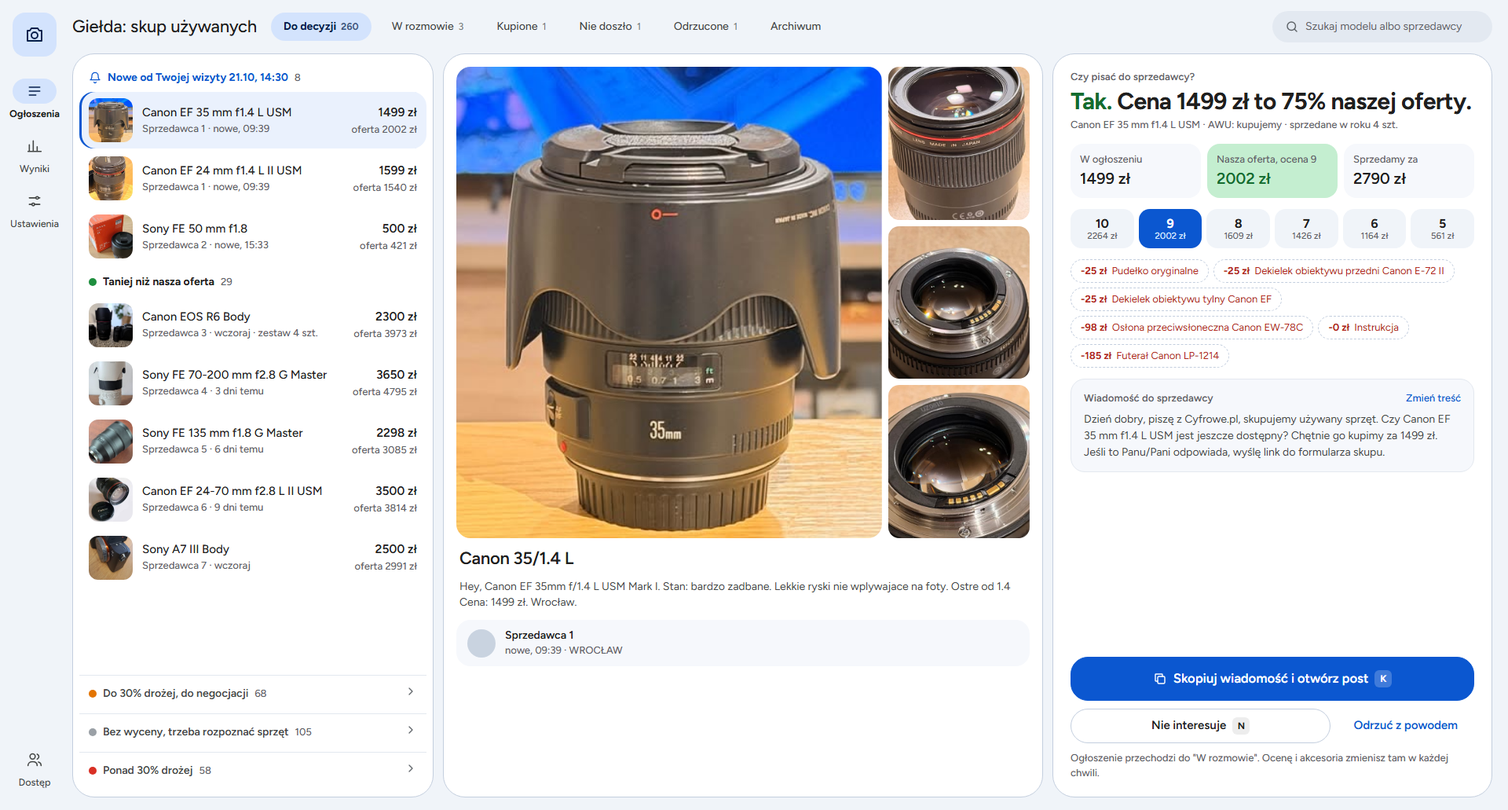
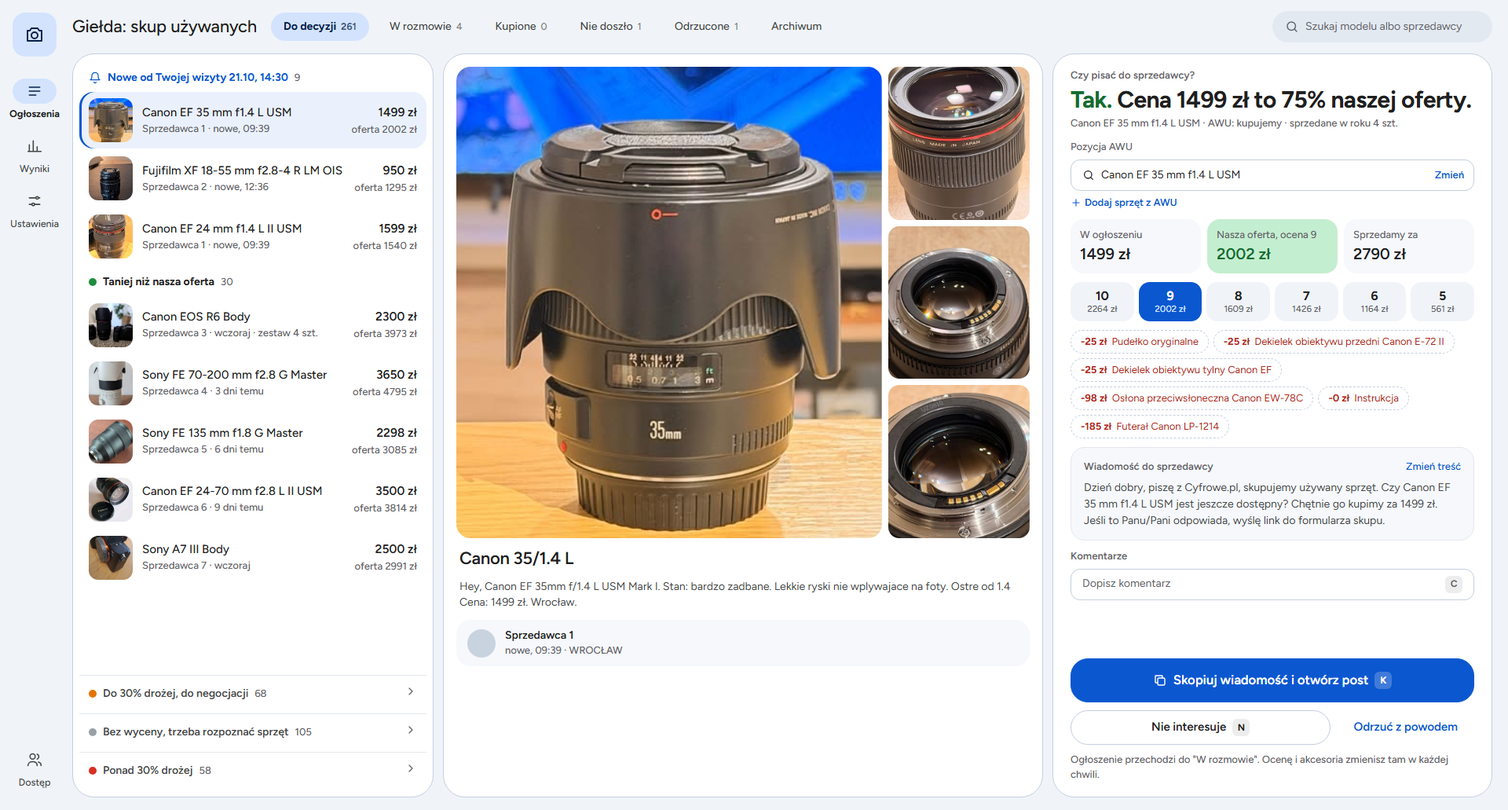
Po uwagach skupu: zakładka W rozmowie z etapami do dotarcia sprzętu, pozycja AWU i komentarze

diff --git a/R.html b/R.html
@@ -1,0 +1,95 @@
+<!doctype html><html lang="pl"><head><meta charset="utf-8"><title>Giełda: W rozmowie</title>
+<link href="https://fonts.googleapis.com/css2?family=Figtree:wght@400;500;600;700;800&display=swap" rel="stylesheet">
+<style>
+*{box-sizing:border-box;margin:0;padding:0}
+:root{--pl:#F0F4F9;--k:#fff;--o:#C3CEDE;--l:#E3E8EF;--t:#1F1F1F;--t2:#444746;--t3:#5E6368;--b:#0B57D0;--bj:#D3E3FD;--bjj:#EAF1FD;--gr:#041E49;
+--g:#146C2E;--gj:#C4EED0;--w:#7A4100;--wj:#FFE2B8;--r:#B3261E;--rj:#F9DEDC;--n:#E9EEF6}
+html,body{background:var(--pl);color:var(--t);font-family:'Google Sans','Figtree',system-ui,sans-serif;font-size:14px;line-height:1.45;-webkit-font-smoothing:antialiased}
+body{width:1920px;height:1031px;overflow:hidden;display:flex}
+.szyna{width:88px;flex:none;display:flex;flex-direction:column;align-items:center;padding:16px 0;gap:6px}
+.logo{width:56px;height:56px;border-radius:16px;background:var(--bj);display:grid;place-items:center;color:var(--gr);margin-bottom:22px}
+.sz{display:flex;flex-direction:column;align-items:center;gap:4px;font-size:12.5px;font-weight:500;color:var(--t2);margin-bottom:10px}
+.sz i{width:56px;height:32px;border-radius:16px;display:grid;place-items:center}.sz.on i{background:var(--bj);color:var(--gr)}.sz.on{color:var(--t);font-weight:700}
+.dol{margin-top:auto}
+.gl{flex:1;display:flex;flex-direction:column;min-width:0;padding:12px 20px 16px 4px;gap:12px}
+.pasek{display:flex;align-items:center;gap:10px;height:44px;flex:none}
+.pasek h1{font-size:22px;font-weight:500;letter-spacing:-.2px;white-space:nowrap;margin-right:8px}
+.tb{display:inline-flex;align-items:center;gap:6px;height:36px;padding:0 16px;border-radius:18px;font-size:14px;font-weight:500;color:var(--t2);white-space:nowrap}
+.tb.on{background:var(--bj);color:var(--gr);font-weight:700}.tb .n{font-size:12.5px;opacity:.7}
+.sp{flex:1}
+.szuk{display:flex;align-items:center;gap:8px;height:40px;padding:0 16px;border-radius:20px;background:#E3E9F1;color:var(--t3);width:280px;font-size:14px}
+.karta{background:var(--k);border:1px solid var(--o);border-radius:28px}
+.chip{display:inline-flex;align-items:center;gap:5px;height:26px;padding:0 10px;border-radius:8px;font-size:12.5px;font-weight:600;white-space:nowrap}
+.chip.g{background:var(--gj);color:var(--g)}.chip.w{background:var(--wj);color:var(--w)}.chip.b{background:var(--rj);color:var(--r)}.chip.n{background:var(--n);color:var(--t2)}.chip.bl{background:var(--bj);color:var(--gr)}
+.btn{display:inline-flex;align-items:center;justify-content:center;gap:8px;height:44px;padding:0 20px;border-radius:22px;font-size:15px;font-weight:600;border:1px solid var(--o);background:var(--k);color:var(--t);white-space:nowrap}
+.btn.p{background:var(--b);border-color:var(--b);color:#fff}.btn.t{border-color:transparent;background:transparent;color:var(--b)}
+.kl{display:inline-grid;place-items:center;min-width:22px;height:22px;padding:0 6px;border-radius:6px;background:rgba(0,0,0,.07);font-size:12px;font-weight:700;color:inherit}
+.btn.p .kl{background:rgba(255,255,255,.22)}
+.k13{font-size:13px;color:var(--t3);font-weight:500}.kick{font-size:13px;font-weight:600;color:var(--t3);letter-spacing:.1px}
+.ell{overflow:hidden;text-overflow:ellipsis;white-space:nowrap}
+img{display:block;object-fit:cover}
+.dot{width:10px;height:10px;border-radius:50%;flex:none}.dot.g{background:#1E8E3E}.dot.w{background:#E37400}.dot.b{background:#D93025}.dot.n{background:#9AA0A6}
+.oc{display:grid;grid-template-columns:repeat(6,1fr);gap:6px}
+.oc span{display:flex;flex-direction:column;align-items:center;justify-content:center;height:50px;border-radius:14px;background:#F0F4F9;font-weight:700;font-size:16px;line-height:1.15}
+.oc span small{font-size:11.5px;font-weight:500;color:var(--t3)}.oc span.on{background:var(--b);color:#fff}.oc span.on small{color:var(--bj)}
+.ak{display:flex;flex-wrap:wrap;gap:6px}
+.ak span{display:inline-flex;align-items:center;gap:6px;height:30px;padding:0 12px;border-radius:15px;font-size:13px;border:1px solid var(--o);background:#fff}
+.ak span.jest{background:var(--gj);border-color:var(--gj);color:var(--g)}.ak span.brak{color:var(--r);border-style:dashed}.ak b{font-weight:700}
+.av{width:40px;height:40px;border-radius:50%;background:#C9D3E0;flex:none;display:inline-block}
+.sprz .av{width:36px;height:36px}
+.wia{border-radius:18px;background:#F6F8FC;border:1px solid var(--l);padding:14px 16px;font-size:14px;color:var(--t2);line-height:1.5}
+.wia .ed{display:flex;justify-content:space-between;align-items:center;margin-bottom:6px}
+.poz{display:flex;flex-direction:column;gap:6px}
+.pole{display:flex;align-items:center;gap:8px;height:40px;padding:0 12px 0 14px;border-radius:12px;border:1px solid var(--o);font-size:14px;color:var(--t);min-width:0}
+.pole .ell{flex:1;min-width:0}.pole .zm{color:var(--b);font-weight:600;font-size:13px}
+.dod{display:inline-flex;align-items:center;gap:4px;color:var(--b);font-weight:600;font-size:13px}
+.komb{display:flex;flex-direction:column;gap:6px}
+.kw{font-size:13.5px;color:var(--t2);background:#F6F8FC;border-radius:12px;padding:8px 12px}.kw b{color:var(--t);font-weight:600}
+.kpole{display:flex;align-items:center;justify-content:space-between;height:40px;padding:0 14px;border-radius:12px;border:1px solid var(--o);color:var(--t3);font-size:14px}
+.uk{flex:1;display:grid;grid-template-columns:1fr 520px;gap:12px;min-height:0}
+.tab{display:grid;grid-template-columns:repeat(4,1fr);gap:12px;min-height:0}
+.kol{background:#E6EBF2;border-radius:24px;padding:12px;display:flex;flex-direction:column;gap:8px;min-height:0;overflow:hidden}
+.kol-g{display:flex;align-items:center;gap:8px;padding:4px 6px 0;font-size:16px}.kol-g b{font-weight:700}
+.kol-o{padding:0 6px 4px;line-height:1.35}
+.kol-c{display:flex;flex-direction:column;gap:8px;min-height:0}
+.kb{background:#fff;border:1px solid var(--o);border-radius:18px;padding:10px;display:flex;flex-direction:column;gap:8px}
+.kb.on{border-color:var(--b);box-shadow:0 0 0 2px var(--b) inset}
+.kb-g{display:grid;grid-template-columns:56px 1fr;gap:10px;align-items:center}.kb-g img{width:56px;height:56px;border-radius:12px}
+.kb-t{min-width:0}.kb-n{font-size:14px;font-weight:600;line-height:1.3;display:-webkit-box;-webkit-line-clamp:2;-webkit-box-orient:vertical;overflow:hidden}
+.kb-l{display:flex;justify-content:space-between;gap:8px;font-size:13px;color:var(--t3)}.kb-l b{color:var(--t);font-weight:600;white-space:nowrap}.kb-l b.g{color:var(--g)}.kb-l b.w{color:var(--w)}
+.kb-a{display:flex;gap:6px}.kb-a .btn{height:34px;font-size:13px;padding:0 10px;flex:1}
+.kb-k{font-size:13px;color:var(--t2);background:#F6F8FC;border-radius:10px;padding:6px 10px}
+.pus{border:2px dashed #B9C4D3;border-radius:18px;padding:18px 14px;text-align:center;color:var(--t3);font-size:13.5px;line-height:1.45}
+.szk{padding:18px 20px;display:flex;flex-direction:column;gap:12px;min-height:0}
+.szk .g2{display:grid;grid-template-columns:2fr 1fr;grid-template-rows:110px 110px;gap:8px}.szk .g2 img{width:100%;height:100%;border-radius:14px}.szk .g2 img:first-child{grid-row:1/3}
+.szk h2{font-size:20px;font-weight:600;line-height:1.25}
+.etap{display:flex;gap:4px}.etap span{flex:1;height:6px;border-radius:3px;background:#DDE3EA}.etap span.on{background:var(--b)}
+.szk .akcje{margin-top:auto;display:grid;grid-template-columns:1fr 1fr 1fr;gap:8px}.szk .akcje .btn{height:46px;font-size:14px;padding:0 10px}
+</style></head><body><nav class="szyna"><div class="logo"><svg width="24" height="24" viewBox="0 0 24 24" fill="none" stroke="currentColor" stroke-width="1.9" stroke-linecap="round" stroke-linejoin="round"><path d="M3 7h3l2-3h8l2 3h3v13H3z"/><circle cx="12" cy="13" r="4"/></svg></div>
+<div class="sz on"><i><svg width="20" height="20" viewBox="0 0 24 24" fill="none" stroke="currentColor" stroke-width="1.9" stroke-linecap="round" stroke-linejoin="round"><path d="M4 6h16M4 12h16M4 18h10"/></svg></i>Ogłoszenia</div><div class="sz"><i><svg width="20" height="20" viewBox="0 0 24 24" fill="none" stroke="currentColor" stroke-width="1.9" stroke-linecap="round" stroke-linejoin="round"><path d="M4 20V10M10 20V4M16 20v-7M22 20H2"/></svg></i>Wyniki</div><div class="sz"><i><svg width="20" height="20" viewBox="0 0 24 24" fill="none" stroke="currentColor" stroke-width="1.9" stroke-linecap="round" stroke-linejoin="round"><path d="M4 7h10M18 7h2M4 17h4M12 17h8"/><circle cx="16" cy="7" r="2"/><circle cx="10" cy="17" r="2"/></svg></i>Ustawienia</div>
+<div class="sz dol"><i><svg width="20" height="20" viewBox="0 0 24 24" fill="none" stroke="currentColor" stroke-width="1.9" stroke-linecap="round" stroke-linejoin="round"><path d="M9 11a4 4 0 1 0 0-8 4 4 0 0 0 0 8zM2 21c0-4 3-6 7-6s7 2 7 6M16 3.5a4 4 0 0 1 0 7.5M22 21c0-3-2-5-4-5.5"/></svg></i>Dostęp</div></nav><main class="gl">
+<div class="pasek"><h1>Giełda: skup używanych</h1>
+<span class="tb">Do decyzji <span class="n">261</span></span><span class="tb on">W rozmowie <span class="n">4</span></span><span class="tb">Kupione <span class="n">0</span></span><span class="tb">Nie doszło <span class="n">1</span></span><span class="tb">Odrzucone <span class="n">1</span></span><span class="tb">Archiwum</span>
+<span class="sp"></span><span class="szuk"><svg width="18" height="18" viewBox="0 0 24 24" fill="none" stroke="currentColor" stroke-width="1.9" stroke-linecap="round" stroke-linejoin="round"><circle cx="11" cy="11" r="7"/><path d="m20 20-4-4"/></svg> Szukaj modelu albo sprzedawcy</span></div>
+<div class="uk">
+ <div class="tab">
+ <section class="kol"><div class="kol-g"><span class="dot w"></span><b>Napisane, czekam</b><span class="k13">3</span></div><div class="k13 kol-o">Wiadomość poszła, nie ma odpowiedzi. Po 24 godzinach karta przypomina o sobie.</div><div class="kol-c"><div class="kb"><div class="kb-g"><img src="img/29514394138163940_0.jpg" alt=""><div class="kb-t"><div class="kb-n">Panasonic Lumix DMC-FZ1000</div>
+<div class="k13 ell">Sprzedawca 8</div></div></div><div class="kb-l"><span>Napisane: Operator</span><b>21.10, 10:30</b></div><div class="kb-l"><span>W ogłoszeniu 1400 zł</span><b class="g">oferta 1889 zł</b></div><div class="kb-a"><span class="btn"><svg width="15" height="15" viewBox="0 0 24 24" fill="none" stroke="currentColor" stroke-width="1.9" stroke-linecap="round" stroke-linejoin="round"><path d="M6 8a6 6 0 1 1 12 0c0 7 3 8 3 8H3s3-1 3-8M10 20a2 2 0 0 0 4 0"/></svg> Przypomnij się</span></div></div><div class="kb on"><div class="kb-g"><img src="img/29453777500892271_0.jpg" alt=""><div class="kb-t"><div class="kb-n">Aparat Sony Alpha 6400 + 18-135mm OSS + 3 baterie + Torba</div>
+<div class="k13 ell">Sprzedawca 9</div></div></div><div class="kb-l"><span>Napisane: Operator</span><b>21.10, 14:30</b></div><div class="kb-l"><span>W ogłoszeniu 1770 zł</span><b class="g">oferta w karcie</b></div><div class="kb-a"><span class="btn"><svg width="15" height="15" viewBox="0 0 24 24" fill="none" stroke="currentColor" stroke-width="1.9" stroke-linecap="round" stroke-linejoin="round"><path d="M6 8a6 6 0 1 1 12 0c0 7 3 8 3 8H3s3-1 3-8M10 20a2 2 0 0 0 4 0"/></svg> Przypomnij się</span></div><div class="kb-k">1 komentarz</div></div><div class="kb"><div class="kb-g"><img src="img/29579214825015204_0.jpg" alt=""><div class="kb-t"><div class="kb-n">Canon EOS 6D + 70-200 f/4L + 50 mm f/1.8 + 35-80 – kompletny zestaw pełnoklatkowy</div>
+<div class="k13 ell">Sprzedawca 10</div></div></div><div class="kb-l"><span>Napisane: Operator</span><b>21.10, 10:49</b></div><div class="kb-l"><span>W ogłoszeniu 2000 zł</span><b class="g">oferta 3700 zł</b></div><div class="kb-a"><span class="btn"><svg width="15" height="15" viewBox="0 0 24 24" fill="none" stroke="currentColor" stroke-width="1.9" stroke-linecap="round" stroke-linejoin="round"><path d="M6 8a6 6 0 1 1 12 0c0 7 3 8 3 8H3s3-1 3-8M10 20a2 2 0 0 0 4 0"/></svg> Przypomnij się</span></div></div></div></section>
+ <section class="kol"><div class="kol-g"><span class="dot bl"></span><b>Rozmawiamy</b><span class="k13">0</span></div><div class="k13 kol-o">Jest odpowiedź. Ustalasz stan, akcesoria i cenę, a wycena zmienia się bez cofania decyzji.</div><div class="kol-c"><div class="pus">Pusto. Karta trafia tu przyciskiem "Jest odpowiedź".</div></div></section>
+ <section class="kol"><div class="kol-g"><span class="dot g"></span><b>Czeka na formularz AWU</b><span class="k13">1</span></div><div class="k13 kol-o">Jest zgoda na cenę i link do formularza. Po 2 dniach bez formularza karta przypomina o sobie.</div><div class="kol-c"><div class="kb"><div class="kb-g"><img src="img/29579853288284691_0.jpg" alt=""><div class="kb-t"><div class="kb-n">Nikon 24-85 mm f2.8-4 D AF</div>
+<div class="k13 ell">Sprzedawca 11</div></div></div><div class="kb-l"><span>Zgoda na</span><b class="g">560 zł</b></div><div class="kb-l"><span>ocena 8, Operator</span><b>21.10, 10:42</b></div><div class="kb-k">Operator: Klient wypełni AWU</div><div class="kb-a"><span class="btn">Formularz jest</span><span class="btn"><svg width="15" height="15" viewBox="0 0 24 24" fill="none" stroke="currentColor" stroke-width="1.9" stroke-linecap="round" stroke-linejoin="round"><path d="M6 8a6 6 0 1 1 12 0c0 7 3 8 3 8H3s3-1 3-8M10 20a2 2 0 0 0 4 0"/></svg> Przypomnij</span></div></div></div></section>
+ <section class="kol"><div class="kol-g"><span class="dot g"></span><b>W drodze do nas</b><span class="k13">0</span></div><div class="k13 kol-o">Formularz wypełniony, sprzęt jest w drodze. Po 5 dniach bez dotarcia karta przypomina o sobie.</div><div class="kol-c"><div class="pus">Pusto. Przycisk "Dotarło" kończy rozmowę i przenosi kartę do zakładki "Kupione".</div></div></section>
+ </div>
+ <section class="karta szk">
+  <div class="etap"><span class="on"></span><span class=""></span><span class=""></span><span class=""></span><span class=""></span></div>
+  <div class="kb-l"><span>Napisane · Rozmawiamy · Formularz AWU · W drodze · Dotarło</span></div>
+  <div class="g2"><img src="img/29453777500892271_0.jpg" alt=""><img src="img/29453777500892271_1.jpg" alt=""><img src="img/29453777500892271_2.jpg" alt=""></div>
+  <h2>Aparat Sony Alpha 6400 + 18-135mm OSS + 3 baterie + Torba</h2>
+  <div class="kb-l"><span>Sprzedawca 9 · w ogłoszeniu 1770 zł</span><b>Napisane 21.10, 14:30</b></div>
+  <div class="poz"><span class="k13">Pozycja AWU</span><div class="pole"><svg width="16" height="16" viewBox="0 0 24 24" fill="none" stroke="currentColor" stroke-width="1.9" stroke-linecap="round" stroke-linejoin="round"><circle cx="11" cy="11" r="7"/><path d="m20 20-4-4"/></svg><span class="ell">Sony A6400 AB Body</span><span class="zm">Zmień</span></div><div class="pole" style="color:var(--t3)"><svg width="16" height="16" viewBox="0 0 24 24" fill="none" stroke="currentColor" stroke-width="1.9" stroke-linecap="round" stroke-linejoin="round"><circle cx="11" cy="11" r="7"/><path d="m20 20-4-4"/></svg><span class="ell">Sony E 18-135 mm f3.5-5.6 OSS</span><span class="zm">Zmień</span></div><span class="dod"><svg width="14" height="14" viewBox="0 0 24 24" fill="none" stroke="currentColor" stroke-width="1.9" stroke-linecap="round" stroke-linejoin="round"><path d="M12 5v14M5 12h14"/></svg> Dodaj sprzęt z AWU</span></div>
+  <div class="komb"><span class="kick">Komentarze (1)</span><div class="kw"><b>Operator</b> <span class="k13">21.10, 14:29</span><div>Do przemyślenia</div></div><div class="kpole">Dopisz komentarz <span class="kl">C</span></div></div>
+  <div class="akcje"><span class="btn">Nie doszło</span><span class="btn">Jest odpowiedź</span><span class="btn p">Zgoda na cenę</span></div>
+ </section>
+</div></main></body></html>

diff --git a/A.html b/A.html
@@ -39,7 +39,13 @@ img{display:block;object-fit:cover}
 .sprz .av{width:36px;height:36px}
 .wia{border-radius:18px;background:#F6F8FC;border:1px solid var(--l);padding:14px 16px;font-size:14px;color:var(--t2);line-height:1.5}
 .wia .ed{display:flex;justify-content:space-between;align-items:center;margin-bottom:6px}
-
+.poz{display:flex;flex-direction:column;gap:6px}
+.pole{display:flex;align-items:center;gap:8px;height:40px;padding:0 12px 0 14px;border-radius:12px;border:1px solid var(--o);font-size:14px;color:var(--t);min-width:0}
+.pole .ell{flex:1;min-width:0}.pole .zm{color:var(--b);font-weight:600;font-size:13px}
+.dod{display:inline-flex;align-items:center;gap:4px;color:var(--b);font-weight:600;font-size:13px}
+.komb{display:flex;flex-direction:column;gap:6px}
+.kw{font-size:13.5px;color:var(--t2);background:#F6F8FC;border-radius:12px;padding:8px 12px}.kw b{color:var(--t);font-weight:600}
+.kpole{display:flex;align-items:center;justify-content:space-between;height:40px;padding:0 14px;border-radius:12px;border:1px solid var(--o);color:var(--t3);font-size:14px}
 .trzy{flex:1;display:grid;grid-template-columns:460px 1fr 560px;gap:12px;min-height:0}
 .lst{padding:10px 8px;overflow:hidden;display:flex;flex-direction:column;gap:2px}
 .lg{display:flex;align-items:center;gap:8px;padding:10px 12px 6px;font-size:14px;font-weight:700;color:var(--t)}
@@ -56,7 +62,7 @@ img{display:block;object-fit:cover}
 .sprz{display:flex;align-items:center;gap:12px;padding:10px 14px;border-radius:18px;background:#F6F8FC}
 .sprz img{width:40px;height:40px;border-radius:50%}
 .opis{font-size:14px;color:var(--t2);padding:0 4px;display:-webkit-box;-webkit-line-clamp:5;-webkit-box-orient:vertical;overflow:hidden}
-.dec{padding:20px 22px;display:flex;flex-direction:column;gap:14px;min-height:0}
+.dec{padding:18px 22px;display:flex;flex-direction:column;gap:11px;min-height:0}
 .odp{display:flex;flex-direction:column;gap:4px}
 .odp .tak{font-size:30px;font-weight:700;letter-spacing:-.6px;line-height:1.15}.odp .tak em{font-style:normal;color:var(--g)}
 .trz{display:grid;grid-template-columns:repeat(3,1fr);gap:8px}
@@ -69,19 +75,19 @@ img{display:block;object-fit:cover}
 <div class="sz on"><i><svg width="20" height="20" viewBox="0 0 24 24" fill="none" stroke="currentColor" stroke-width="1.9" stroke-linecap="round" stroke-linejoin="round"><path d="M4 6h16M4 12h16M4 18h10"/></svg></i>Ogłoszenia</div><div class="sz"><i><svg width="20" height="20" viewBox="0 0 24 24" fill="none" stroke="currentColor" stroke-width="1.9" stroke-linecap="round" stroke-linejoin="round"><path d="M4 20V10M10 20V4M16 20v-7M22 20H2"/></svg></i>Wyniki</div><div class="sz"><i><svg width="20" height="20" viewBox="0 0 24 24" fill="none" stroke="currentColor" stroke-width="1.9" stroke-linecap="round" stroke-linejoin="round"><path d="M4 7h10M18 7h2M4 17h4M12 17h8"/><circle cx="16" cy="7" r="2"/><circle cx="10" cy="17" r="2"/></svg></i>Ustawienia</div>
 <div class="sz dol"><i><svg width="20" height="20" viewBox="0 0 24 24" fill="none" stroke="currentColor" stroke-width="1.9" stroke-linecap="round" stroke-linejoin="round"><path d="M9 11a4 4 0 1 0 0-8 4 4 0 0 0 0 8zM2 21c0-4 3-6 7-6s7 2 7 6M16 3.5a4 4 0 0 1 0 7.5M22 21c0-3-2-5-4-5.5"/></svg></i>Dostęp</div></nav><main class="gl">
 <div class="pasek"><h1>Giełda: skup używanych</h1>
-<span class="tb on">Do decyzji <span class="n">260</span></span><span class="tb">W rozmowie <span class="n">3</span></span><span class="tb">Kupione <span class="n">1</span></span><span class="tb">Nie doszło <span class="n">1</span></span><span class="tb">Odrzucone <span class="n">1</span></span><span class="tb">Archiwum</span>
+<span class="tb on">Do decyzji <span class="n">261</span></span><span class="tb">W rozmowie <span class="n">4</span></span><span class="tb">Kupione <span class="n">0</span></span><span class="tb">Nie doszło <span class="n">1</span></span><span class="tb">Odrzucone <span class="n">1</span></span><span class="tb">Archiwum</span>
 <span class="sp"></span><span class="szuk"><svg width="18" height="18" viewBox="0 0 24 24" fill="none" stroke="currentColor" stroke-width="1.9" stroke-linecap="round" stroke-linejoin="round"><circle cx="11" cy="11" r="7"/><path d="m20 20-4-4"/></svg> Szukaj modelu albo sprzedawcy</span></div>
 <div class="trzy">
  <section class="karta lst">
-  <div class="lg nw"><svg width="16" height="16" viewBox="0 0 24 24" fill="none" stroke="currentColor" stroke-width="1.9" stroke-linecap="round" stroke-linejoin="round"><path d="M6 8a6 6 0 1 1 12 0c0 7 3 8 3 8H3s3-1 3-8M10 20a2 2 0 0 0 4 0"/></svg><span>Nowe od Twojej wizyty 21.10, 14:30</span><span class="k13">8</span></div>
+  <div class="lg nw"><svg width="16" height="16" viewBox="0 0 24 24" fill="none" stroke="currentColor" stroke-width="1.9" stroke-linecap="round" stroke-linejoin="round"><path d="M6 8a6 6 0 1 1 12 0c0 7 3 8 3 8H3s3-1 3-8M10 20a2 2 0 0 0 4 0"/></svg><span>Nowe od Twojej wizyty 21.10, 14:30</span><span class="k13">9</span></div>
   <div class="la on"><img src="img/29691710087099010_0.jpg" alt="">
 <div class="la-t"><div class="ell la-n">Canon EF 35 mm f1.4 L USM</div><div class="ell k13">Sprzedawca 1 · nowe, 09:39</div></div>
-<div class="la-c"><b>1499 zł</b><span class="k13">oferta 2002 zł</span></div></div><div class="la"><img src="img/29691692573767428_0.jpg" alt="">
+<div class="la-c"><b>1499 zł</b><span class="k13">oferta 2002 zł</span></div></div><div class="la"><img src="img/29698342689769083_0.jpg" alt="">
+<div class="la-t"><div class="ell la-n">Fujifilm XF 18-55 mm f2.8-4 R LM OIS</div><div class="ell k13">Sprzedawca 2 · nowe, 12:36</div></div>
+<div class="la-c"><b>950 zł</b><span class="k13">oferta 1295 zł</span></div></div><div class="la"><img src="img/29691692573767428_0.jpg" alt="">
 <div class="la-t"><div class="ell la-n">Canon EF 24 mm f1.4 L II USM</div><div class="ell k13">Sprzedawca 1 · nowe, 09:39</div></div>
-<div class="la-c"><b>1599 zł</b><span class="k13">oferta 1540 zł</span></div></div><div class="la"><img src="img/29686293517640667_0.jpg" alt="">
-<div class="la-t"><div class="ell la-n">Sony FE 50 mm f1.8</div><div class="ell k13">Sprzedawca 2 · nowe, 15:33</div></div>
-<div class="la-c"><b>500 zł</b><span class="k13">oferta 421 zł</span></div></div>
-  <div class="lg"><span class="dot g"></span><span class="ell">Taniej niż nasza oferta</span><span class="k13">29</span></div>
+<div class="la-c"><b>1599 zł</b><span class="k13">oferta 1540 zł</span></div></div>
+  <div class="lg"><span class="dot g"></span><span class="ell">Taniej niż nasza oferta</span><span class="k13">30</span></div>
   <div class="la"><img src="img/29671478525788833_0.jpg" alt="">
 <div class="la-t"><div class="ell la-n">Canon EOS R6 Body</div><div class="ell k13">Sprzedawca 3 · wczoraj · zestaw 4 szt.</div></div>
 <div class="la-c"><b>2300 zł</b><span class="k13">oferta 3973 zł</span></div></div><div class="la"><img src="img/29640694428867243_0.jpg" alt="">
@@ -111,10 +117,12 @@ Wrocław.</div>
   <div class="odp"><span class="kick">Czy pisać do sprzedawcy?</span>
   <span class="tak"><em>Tak.</em> Cena 1499 zł to 75% naszej oferty.</span>
   <span class="k13">Canon EF 35 mm f1.4 L USM · AWU: kupujemy · sprzedane w roku 4 szt.</span></div>
+  <div class="poz"><span class="k13">Pozycja AWU</span><div class="pole"><svg width="16" height="16" viewBox="0 0 24 24" fill="none" stroke="currentColor" stroke-width="1.9" stroke-linecap="round" stroke-linejoin="round"><circle cx="11" cy="11" r="7"/><path d="m20 20-4-4"/></svg><span class="ell">Canon EF 35 mm f1.4 L USM</span><span class="zm">Zmień</span></div><span class="dod"><svg width="14" height="14" viewBox="0 0 24 24" fill="none" stroke="currentColor" stroke-width="1.9" stroke-linecap="round" stroke-linejoin="round"><path d="M12 5v14M5 12h14"/></svg> Dodaj sprzęt z AWU</span></div>
   <div class="trz"><div><span class="k13">W ogłoszeniu</span><b>1499 zł</b></div><div class="of"><span class="k13">Nasza oferta, ocena 9</span><b>2002 zł</b></div><div><span class="k13">Sprzedamy za</span><b>2790 zł</b></div></div>
   <div class="oc"><span class="">10<small>2264 zł</small></span><span class="on">9<small>2002 zł</small></span><span class="">8<small>1609 zł</small></span><span class="">7<small>1426 zł</small></span><span class="">6<small>1164 zł</small></span><span class="">5<small>561 zł</small></span></div>
   <div class="ak"><span class="brak"><b>-25 zł</b> Pudełko oryginalne</span><span class="brak"><b>-25 zł</b> Dekielek obiektywu przedni Canon E-72 II</span><span class="brak"><b>-25 zł</b> Dekielek obiektywu tylny Canon EF</span><span class="brak"><b>-98 zł</b> Osłona przeciwsłoneczna Canon EW-78C</span><span class="brak"><b>-0 zł</b> Instrukcja</span><span class="brak"><b>-185 zł</b> Futerał Canon LP-1214</span></div>
   <div class="wia"><div class="ed"><span class="kick">Wiadomość do sprzedawcy</span><span class="k13" style="color:var(--b)">Zmień treść</span></div>Dzień dobry, piszę z Cyfrowe.pl, skupujemy używany sprzęt. Czy Canon EF 35 mm f1.4 L USM jest jeszcze dostępny? Chętnie go kupimy za 1499 zł. Jeśli to Panu/Pani odpowiada, wyślę link do formularza skupu.</div>
+  <div class="komb"><span class="kick">Komentarze</span><div class="kpole">Dopisz komentarz <span class="kl">C</span></div></div>
   <div class="akcje">
    <span class="btn p"><svg width="18" height="18" viewBox="0 0 24 24" fill="none" stroke="currentColor" stroke-width="1.9" stroke-linecap="round" stroke-linejoin="round"><rect x="8" y="8" width="12" height="12" rx="2"/><path d="M16 8V5a1 1 0 0 0-1-1H5a1 1 0 0 0-1 1v10a1 1 0 0 0 1 1h3"/></svg> Skopiuj wiadomość i otwórz post <span class="kl">K</span></span>
    <div class="rz"><span class="btn" style="flex:1">Nie interesuje <span class="kl">N</span></span><span class="btn t">Odrzuć z powodem</span></div>

diff --git a/B.html b/B.html
@@ -39,7 +39,13 @@ img{display:block;object-fit:cover}
 .sprz .av{width:36px;height:36px}
 .wia{border-radius:18px;background:#F6F8FC;border:1px solid var(--l);padding:14px 16px;font-size:14px;color:var(--t2);line-height:1.5}
 .wia .ed{display:flex;justify-content:space-between;align-items:center;margin-bottom:6px}
-
+.poz{display:flex;flex-direction:column;gap:6px}
+.pole{display:flex;align-items:center;gap:8px;height:40px;padding:0 12px 0 14px;border-radius:12px;border:1px solid var(--o);font-size:14px;color:var(--t);min-width:0}
+.pole .ell{flex:1;min-width:0}.pole .zm{color:var(--b);font-weight:600;font-size:13px}
+.dod{display:inline-flex;align-items:center;gap:4px;color:var(--b);font-weight:600;font-size:13px}
+.komb{display:flex;flex-direction:column;gap:6px}
+.kw{font-size:13.5px;color:var(--t2);background:#F6F8FC;border-radius:12px;padding:8px 12px}.kw b{color:var(--t);font-weight:600}
+.kpole{display:flex;align-items:center;justify-content:space-between;height:40px;padding:0 14px;border-radius:12px;border:1px solid var(--o);color:var(--t3);font-size:14px}
 .filtr{display:flex;align-items:center;gap:10px;height:40px;flex:none}
 .ft{display:inline-flex;align-items:center;gap:6px;height:34px;padding:0 14px;border-radius:10px;border:1px solid var(--o);background:#fff;font-size:13.5px;font-weight:500;color:var(--t2)}
 .ft.on{background:var(--bj);border-color:var(--bj);color:var(--gr)}
@@ -61,16 +67,16 @@ img{display:block;object-fit:cover}
 <div class="sz on"><i><svg width="20" height="20" viewBox="0 0 24 24" fill="none" stroke="currentColor" stroke-width="1.9" stroke-linecap="round" stroke-linejoin="round"><path d="M4 6h16M4 12h16M4 18h10"/></svg></i>Ogłoszenia</div><div class="sz"><i><svg width="20" height="20" viewBox="0 0 24 24" fill="none" stroke="currentColor" stroke-width="1.9" stroke-linecap="round" stroke-linejoin="round"><path d="M4 20V10M10 20V4M16 20v-7M22 20H2"/></svg></i>Wyniki</div><div class="sz"><i><svg width="20" height="20" viewBox="0 0 24 24" fill="none" stroke="currentColor" stroke-width="1.9" stroke-linecap="round" stroke-linejoin="round"><path d="M4 7h10M18 7h2M4 17h4M12 17h8"/><circle cx="16" cy="7" r="2"/><circle cx="10" cy="17" r="2"/></svg></i>Ustawienia</div>
 <div class="sz dol"><i><svg width="20" height="20" viewBox="0 0 24 24" fill="none" stroke="currentColor" stroke-width="1.9" stroke-linecap="round" stroke-linejoin="round"><path d="M9 11a4 4 0 1 0 0-8 4 4 0 0 0 0 8zM2 21c0-4 3-6 7-6s7 2 7 6M16 3.5a4 4 0 0 1 0 7.5M22 21c0-3-2-5-4-5.5"/></svg></i>Dostęp</div></nav><main class="gl">
 <div class="pasek"><h1>Giełda: skup używanych</h1>
-<span class="tb on">Tablica</span><span class="tb">Wszystkie ogłoszenia <span class="n">260</span></span><span class="tb">Archiwum</span>
+<span class="tb on">Tablica</span><span class="tb">Wszystkie ogłoszenia <span class="n">261</span></span><span class="tb">Archiwum</span>
 <span class="sp"></span><span class="szuk"><svg width="18" height="18" viewBox="0 0 24 24" fill="none" stroke="currentColor" stroke-width="1.9" stroke-linecap="round" stroke-linejoin="round"><circle cx="11" cy="11" r="7"/><path d="m20 20-4-4"/></svg> Szukaj modelu albo sprzedawcy</span></div>
 <div class="filtr"><span class="ft on">Wszyscy</span><span class="ft">Moje</span><span class="ft">Aparaty</span><span class="ft">Obiektywy</span><span class="ft">Lampy</span><span class="sp"></span>
 <span class="k13">Karty przeciąga się między kolumnami albo przenosi przyciskiem. Kliknięcie otwiera ogłoszenie z wyceną.</span></div>
 <div class="tab">
- <section class="kol"><div class="kol-g"><span class="dot g"></span><b>Do napisania</b><span class="k13">29</span></div><div class="k13 kol-o">Taniej niż nasza oferta przy ocenie 9, nowe na górze, potem największa różnica do ceny sprzedaży.</div><div class="kol-c"><div class="kb on"><div class="kb-g"><img src="img/29691710087099010_0.jpg" alt=""><div class="kb-t"><div class="kb-n">Canon EF 35 mm f1.4 L USM</div>
-<div class="k13 ell">Sprzedawca 1</div></div></div><div class="kb-l"><span>W ogłoszeniu 1499 zł</span><b class="g">oferta 2002 zł</b></div><div class="kb-l"><span>nowe, 09:39</span><b>sprzedamy za 2790 zł</b></div><div class="kb-a"><span class="btn p"><svg width="15" height="15" viewBox="0 0 24 24" fill="none" stroke="currentColor" stroke-width="1.9" stroke-linecap="round" stroke-linejoin="round"><rect x="8" y="8" width="12" height="12" rx="2"/><path d="M16 8V5a1 1 0 0 0-1-1H5a1 1 0 0 0-1 1v10a1 1 0 0 0 1 1h3"/></svg> Napisz</span><span class="btn">Nie interesuje</span></div></div><div class="kb"><div class="kb-g"><img src="img/29640694428867243_0.jpg" alt=""><div class="kb-t"><div class="kb-n">Sony FE 70-200 mm f2.8 G Master</div>
+ <section class="kol"><div class="kol-g"><span class="dot g"></span><b>Do napisania</b><span class="k13">30</span></div><div class="k13 kol-o">Taniej niż nasza oferta przy ocenie 9, nowe na górze, potem największa różnica do ceny sprzedaży.</div><div class="kol-c"><div class="kb on"><div class="kb-g"><img src="img/29691710087099010_0.jpg" alt=""><div class="kb-t"><div class="kb-n">Canon EF 35 mm f1.4 L USM</div>
+<div class="k13 ell">Sprzedawca 1</div></div></div><div class="kb-l"><span>W ogłoszeniu 1499 zł</span><b class="g">oferta 2002 zł</b></div><div class="kb-l"><span>nowe, 09:39</span><b>sprzedamy za 2790 zł</b></div><div class="kb-a"><span class="btn p"><svg width="15" height="15" viewBox="0 0 24 24" fill="none" stroke="currentColor" stroke-width="1.9" stroke-linecap="round" stroke-linejoin="round"><rect x="8" y="8" width="12" height="12" rx="2"/><path d="M16 8V5a1 1 0 0 0-1-1H5a1 1 0 0 0-1 1v10a1 1 0 0 0 1 1h3"/></svg> Napisz</span><span class="btn">Nie interesuje</span></div></div><div class="kb"><div class="kb-g"><img src="img/29698342689769083_0.jpg" alt=""><div class="kb-t"><div class="kb-n">Fujifilm XF 18-55 mm f2.8-4 R LM OIS</div>
+<div class="k13 ell">Sprzedawca 2</div></div></div><div class="kb-l"><span>W ogłoszeniu 950 zł</span><b class="g">oferta 1295 zł</b></div><div class="kb-l"><span>nowe, 12:36</span><b>sprzedamy za 1593 zł</b></div></div><div class="kb"><div class="kb-g"><img src="img/29640694428867243_0.jpg" alt=""><div class="kb-t"><div class="kb-n">Sony FE 70-200 mm f2.8 G Master</div>
 <div class="k13 ell">Sprzedawca 4</div></div></div><div class="kb-l"><span>W ogłoszeniu 3650 zł</span><b class="g">oferta 4795 zł</b></div><div class="kb-l"><span>3 dni temu</span><b>sprzedamy za 6471 zł</b></div></div><div class="kb"><div class="kb-g"><img src="img/29595519833384703_0.jpg" alt=""><div class="kb-t"><div class="kb-n">Sony FE 135 mm f1.8 G Master</div>
-<div class="k13 ell">Sprzedawca 5</div></div></div><div class="kb-l"><span>W ogłoszeniu 2298 zł</span><b class="g">oferta 3085 zł</b></div><div class="kb-l"><span>6 dni temu</span><b>sprzedamy za 4761 zł</b></div></div><div class="kb"><div class="kb-g"><img src="img/29540446578892029_0.jpg" alt=""><div class="kb-t"><div class="kb-n">Canon EF 24-70 mm f2.8 L II USM</div>
-<div class="k13 ell">Sprzedawca 6</div></div></div><div class="kb-l"><span>W ogłoszeniu 3500 zł</span><b class="g">oferta 3814 zł</b></div><div class="kb-l"><span>9 dni temu</span><b>sprzedamy za 5193 zł</b></div></div><div class="wiecej">+ 25 kolejnych · 68 do negocjacji</div></div></section>
+<div class="k13 ell">Sprzedawca 5</div></div></div><div class="kb-l"><span>W ogłoszeniu 2298 zł</span><b class="g">oferta 3085 zł</b></div><div class="kb-l"><span>6 dni temu</span><b>sprzedamy za 4761 zł</b></div></div><div class="wiecej">+ 26 kolejnych · 68 do negocjacji</div></div></section>
  <section class="kol"><div class="kol-g"><span class="dot w"></span><b>Napisane, czekam</b><span class="k13">3</span></div><div class="k13 kol-o">Wiadomość poszła, nie ma jeszcze odpowiedzi. Po 24 godzinach karta przypomina o sobie.</div><div class="kol-c"><div class="kb"><div class="kb-g"><img src="img/29514394138163940_0.jpg" alt=""><div class="kb-t"><div class="kb-n">Panasonic Lumix DMC-FZ1000</div>
 <div class="k13 ell">Sprzedawca 8</div></div></div><div class="kb-l"><span>Napisane: Operator</span><b>21.10, 10:30</b></div><div class="kb-l"><span>W ogłoszeniu 1400 zł</span><b class="g">oferta 1889 zł</b></div><div class="kb-a"><span class="btn"><svg width="15" height="15" viewBox="0 0 24 24" fill="none" stroke="currentColor" stroke-width="1.9" stroke-linecap="round" stroke-linejoin="round"><path d="M6 8a6 6 0 1 1 12 0c0 7 3 8 3 8H3s3-1 3-8M10 20a2 2 0 0 0 4 0"/></svg> Przypomnij się</span><span class="btn">Jest odpowiedź</span></div></div><div class="kb"><div class="kb-g"><img src="img/29453777500892271_0.jpg" alt=""><div class="kb-t"><div class="kb-n">Aparat Sony Alpha 6400 + 18-135mm OSS + 3 baterie + Torba</div>
 <div class="k13 ell">Sprzedawca 9</div></div></div><div class="kb-l"><span>Napisane: Operator</span><b>21.10, 14:30</b></div><div class="kb-l"><span>W ogłoszeniu 1770 zł</span><b class="g">oferta w karcie</b></div><div class="kb-a"><span class="btn"><svg width="15" height="15" viewBox="0 0 24 24" fill="none" stroke="currentColor" stroke-width="1.9" stroke-linecap="round" stroke-linejoin="round"><path d="M6 8a6 6 0 1 1 12 0c0 7 3 8 3 8H3s3-1 3-8M10 20a2 2 0 0 0 4 0"/></svg> Przypomnij się</span><span class="btn">Jest odpowiedź</span></div><div class="kb-k">Operator: Do przemyślenia</div></div><div class="kb"><div class="kb-g"><img src="img/29579214825015204_0.jpg" alt=""><div class="kb-t"><div class="kb-n">Canon EOS 6D + 70-200 f/4L + 50 mm f/1.8 + 35-80 – kompletny zestaw pełnoklatkowy</div>

diff --git a/C.html b/C.html
@@ -39,7 +39,13 @@ img{display:block;object-fit:cover}
 .sprz .av{width:36px;height:36px}
 .wia{border-radius:18px;background:#F6F8FC;border:1px solid var(--l);padding:14px 16px;font-size:14px;color:var(--t2);line-height:1.5}
 .wia .ed{display:flex;justify-content:space-between;align-items:center;margin-bottom:6px}
-
+.poz{display:flex;flex-direction:column;gap:6px}
+.pole{display:flex;align-items:center;gap:8px;height:40px;padding:0 12px 0 14px;border-radius:12px;border:1px solid var(--o);font-size:14px;color:var(--t);min-width:0}
+.pole .ell{flex:1;min-width:0}.pole .zm{color:var(--b);font-weight:600;font-size:13px}
+.dod{display:inline-flex;align-items:center;gap:4px;color:var(--b);font-weight:600;font-size:13px}
+.komb{display:flex;flex-direction:column;gap:6px}
+.kw{font-size:13.5px;color:var(--t2);background:#F6F8FC;border-radius:12px;padding:8px 12px}.kw b{color:var(--t);font-weight:600}
+.kpole{display:flex;align-items:center;justify-content:space-between;height:40px;padding:0 14px;border-radius:12px;border:1px solid var(--o);color:var(--t3);font-size:14px}
 .uk{flex:1;display:grid;grid-template-columns:360px 1fr 560px;gap:12px;min-height:0}
 .plan{padding:22px 18px;display:flex;flex-direction:column;gap:10px}
 .plan h2{font-size:26px;font-weight:700;letter-spacing:-.4px;padding:0 6px}
@@ -66,17 +72,17 @@ img{display:block;object-fit:cover}
 <div class="sz on"><i><svg width="20" height="20" viewBox="0 0 24 24" fill="none" stroke="currentColor" stroke-width="1.9" stroke-linecap="round" stroke-linejoin="round"><path d="M4 6h16M4 12h16M4 18h10"/></svg></i>Ogłoszenia</div><div class="sz"><i><svg width="20" height="20" viewBox="0 0 24 24" fill="none" stroke="currentColor" stroke-width="1.9" stroke-linecap="round" stroke-linejoin="round"><path d="M4 20V10M10 20V4M16 20v-7M22 20H2"/></svg></i>Wyniki</div><div class="sz"><i><svg width="20" height="20" viewBox="0 0 24 24" fill="none" stroke="currentColor" stroke-width="1.9" stroke-linecap="round" stroke-linejoin="round"><path d="M4 7h10M18 7h2M4 17h4M12 17h8"/><circle cx="16" cy="7" r="2"/><circle cx="10" cy="17" r="2"/></svg></i>Ustawienia</div>
 <div class="sz dol"><i><svg width="20" height="20" viewBox="0 0 24 24" fill="none" stroke="currentColor" stroke-width="1.9" stroke-linecap="round" stroke-linejoin="round"><path d="M9 11a4 4 0 1 0 0-8 4 4 0 0 0 0 8zM2 21c0-4 3-6 7-6s7 2 7 6M16 3.5a4 4 0 0 1 0 7.5M22 21c0-3-2-5-4-5.5"/></svg></i>Dostęp</div></nav><main class="gl">
 <div class="pasek"><h1>Giełda: skup używanych</h1>
-<span class="tb on">Przegląd na dziś</span><span class="tb">W rozmowie <span class="n">3</span></span><span class="tb">Kupione <span class="n">1</span></span><span class="tb">Wszystkie ogłoszenia <span class="n">260</span></span>
+<span class="tb on">Przegląd na dziś</span><span class="tb">W rozmowie <span class="n">3</span></span><span class="tb">Kupione <span class="n">1</span></span><span class="tb">Wszystkie ogłoszenia <span class="n">261</span></span>
 <span class="sp"></span><span class="szuk"><svg width="18" height="18" viewBox="0 0 24 24" fill="none" stroke="currentColor" stroke-width="1.9" stroke-linecap="round" stroke-linejoin="round"><circle cx="11" cy="11" r="7"/><path d="m20 20-4-4"/></svg> Szukaj modelu albo sprzedawcy</span></div>
 <div class="uk">
  <section class="karta plan">
   <h2>Dzisiaj, 22.10</h2>
-  <span class="k13" style="padding:0 6px 6px">Od Twojej wizyty 21.10, 14:30 przyszło 8 ogłoszeń. Automat zostawił do obejrzenia te, które mają sens.</span>
-  <div class="kr on"><span class="nr">1</span><div><b>Nowe okazje: 1 z 3</b><div class="k13">Taniej albo do 30% drożej niż nasza oferta.<div class="pr"><i style="width:33%"></i></div></div></div></div>
+  <span class="k13" style="padding:0 6px 6px">Od Twojej wizyty 21.10, 14:30 przyszło 9 ogłoszeń. Automat zostawił do obejrzenia te, które mają sens.</span>
+  <div class="kr on"><span class="nr">1</span><div><b>Nowe okazje: 1 z 4</b><div class="k13">Taniej albo do 30% drożej niż nasza oferta.<div class="pr"><i style="width:25%"></i></div></div></div></div>
   <div class="kr"><span class="nr">2</span><div><b>Przypomnij się: 3 sprzedawców</b><div class="k13">Napisane wczoraj, bez odpowiedzi.</div></div></div>
   <div class="kr"><span class="nr">3</span><div><b>Rozpoznaj sprzęt: 3</b><div class="k13">Nowe ogłoszenia, których automat nie znalazł w AWU. Wybierasz pozycję, panel liczy ofertę.</div></div></div>
   <div class="kr"><span class="nr">4</span><div><b>Starsze okazje: 28</b><div class="k13">Jeśli zostanie czas. Po 14 dniach bez decyzji ogłoszenie idzie do archiwum samo.</div></div></div>
-  <div class="kol2"><span class="k13">Następne w kroku 1</span><div class="ms"><img src="img/29686293517640667_0.jpg" alt=""><img src="img/29691692573767428_0.jpg" alt=""></div></div>
+  <div class="kol2"><span class="k13">Następne w kroku 1</span><div class="ms"><img src="img/29686293517640667_0.jpg" alt=""><img src="img/29691692573767428_0.jpg" alt=""><img src="img/29698342689769083_0.jpg" alt=""></div></div>
  </section>
  <section class="karta foto"><img src="img/29691710087099010_0.jpg" alt=""><div class="ms"><img class="on" src="img/29691710087099010_0.jpg" alt=""><img src="img/29691710087099010_1.jpg" alt=""><img src="img/29691710087099010_2.jpg" alt=""><img src="img/29691710087099010_3.jpg" alt=""></div></section>
  <section class="karta dc">

diff --git a/index.html b/index.html
@@ -78,12 +78,27 @@ ol.z b{font-weight:700}
 </section>
 
 <div class="tabs" role="tablist">
-<button role="tab" id="t-a" aria-selected="true" data-w="a">A. Lista z odpowiedzią</button>
+<button role="tab" id="t-r" aria-selected="true" data-w="r">A i W rozmowie, po uwagach skupu</button>
+<button role="tab" id="t-a" aria-selected="false" data-w="a">A. Lista z odpowiedzią</button>
 <button role="tab" id="t-b" aria-selected="false" data-w="b">B. Tablica rozmów</button>
 <button role="tab" id="t-c" aria-selected="false" data-w="c">C. Poranny przegląd</button>
 </div>
 
-<section class="kar" data-p="a">
+<section class="kar" data-p="r">
+<h2>A i W rozmowie, po uwagach skupu</h2>
+<p>Skup wybrał połączenie A i B. Tablica B jest teraz zakładką "W rozmowie" w układzie A. Dopisałem to, o co pytała osoba ze skupu:</p>
+<ul class="l">
+<li><b>Komentarze i zmiana produktu zostają w każdym miejscu.</b> W "Do decyzji" i w każdej karcie rozmowy jest pole pozycji AWU z przyciskiem "Zmień" i "Dodaj sprzęt z AWU" oraz komentarze, tak jak w panelu od 21.10.</li>
+<li><b>Rozmowa nie kończy się na zgodzie na cenę.</b> Po "Zgoda na cenę" karta przechodzi do kolumny "Czeka na formularz AWU", potem do "W drodze do nas". Przycisk "Dotarło" zamyka rozmowę i przenosi kartę do zakładki "Kupione".</li>
+<li><b>Panel sam przypomina o kartach, które stoją.</b> Brak odpowiedzi po 24 godzinach, brak formularza po 2 dniach, brak przesyłki po 5 dniach. Terminy są do ustalenia.</li>
+<li><b>Do ustalenia z kierownikiem działu:</b> czy panel może sam zobaczyć wypełniony formularz w AWU i dotarcie przesyłki, oraz na którym etapie kończy się praca osoby z giełdą, a zaczyna praca działu.</li>
+</ul>
+<p><a href="R.html" style="color:var(--b);font-weight:600">Otwórz widok "W rozmowie" w pełnym rozmiarze</a> · <a href="A.html" style="color:var(--b);font-weight:600">Otwórz "Do decyzji"</a></p>
+<div class="zrz"><img src="R.png" alt="Zakładka W rozmowie: cztery etapy od wiadomości do przesyłki i otwarta karta z pozycją AWU i komentarzami"></div>
+<div class="zrz"><img src="A.png" alt="Zakładka Do decyzji z polem pozycji AWU i komentarzami"></div>
+</section>
+
+<section class="kar" data-p="a" hidden>
 <h2>A. Lista z odpowiedzią</h2>
 <p>Układ, który skup zna: lista, ogłoszenie, decyzja. Na górze listy są nowe ogłoszenia od wizyty 21.10, 14:30, pod nimi pasmo "Taniej niż nasza oferta", a pozostałe pasma są zwinięte na dole. Prawa kolumna zaczyna się od odpowiedzi "Tak. Cena 1499 zł to 75% naszej oferty", pod nią są trzy kwoty, ocena, akcesoria i gotowa wiadomość. Jeden przycisk kopiuje wiadomość, otwiera post i przenosi ogłoszenie do "W rozmowie".</p>
 <p><a href="A.html" style="color:var(--b);font-weight:600">Otwórz makietę A w pełnym rozmiarze</a> (najlepiej na ekranie Full HD)</p>
